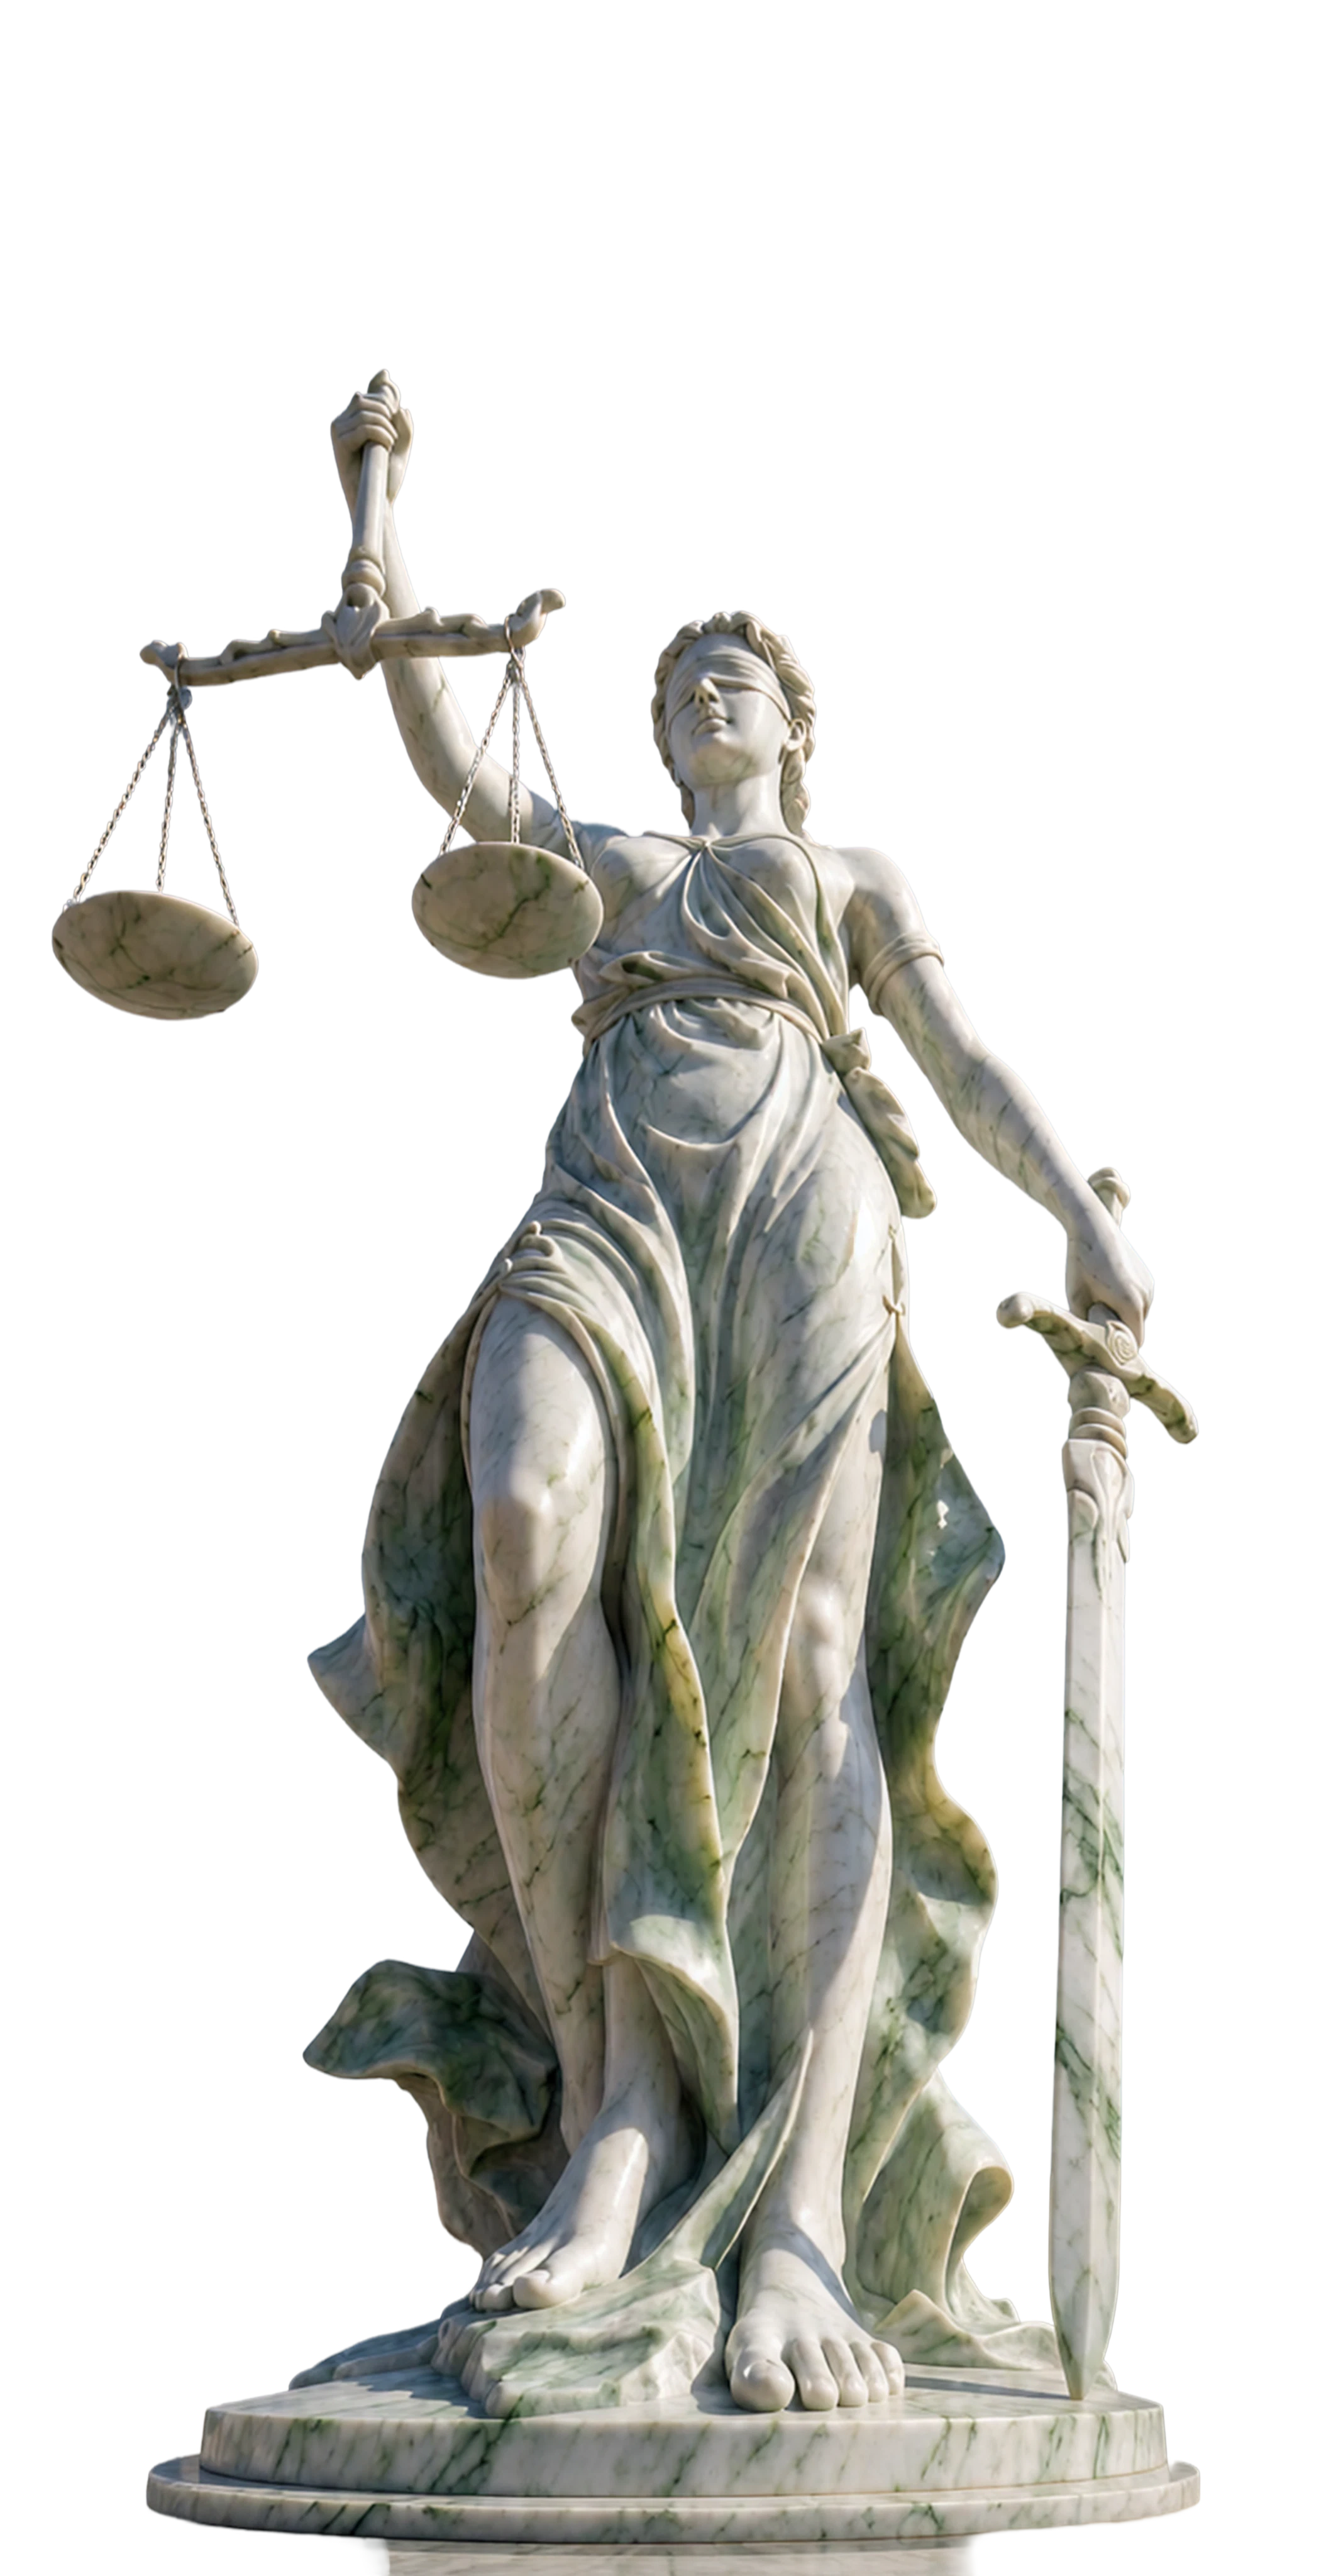
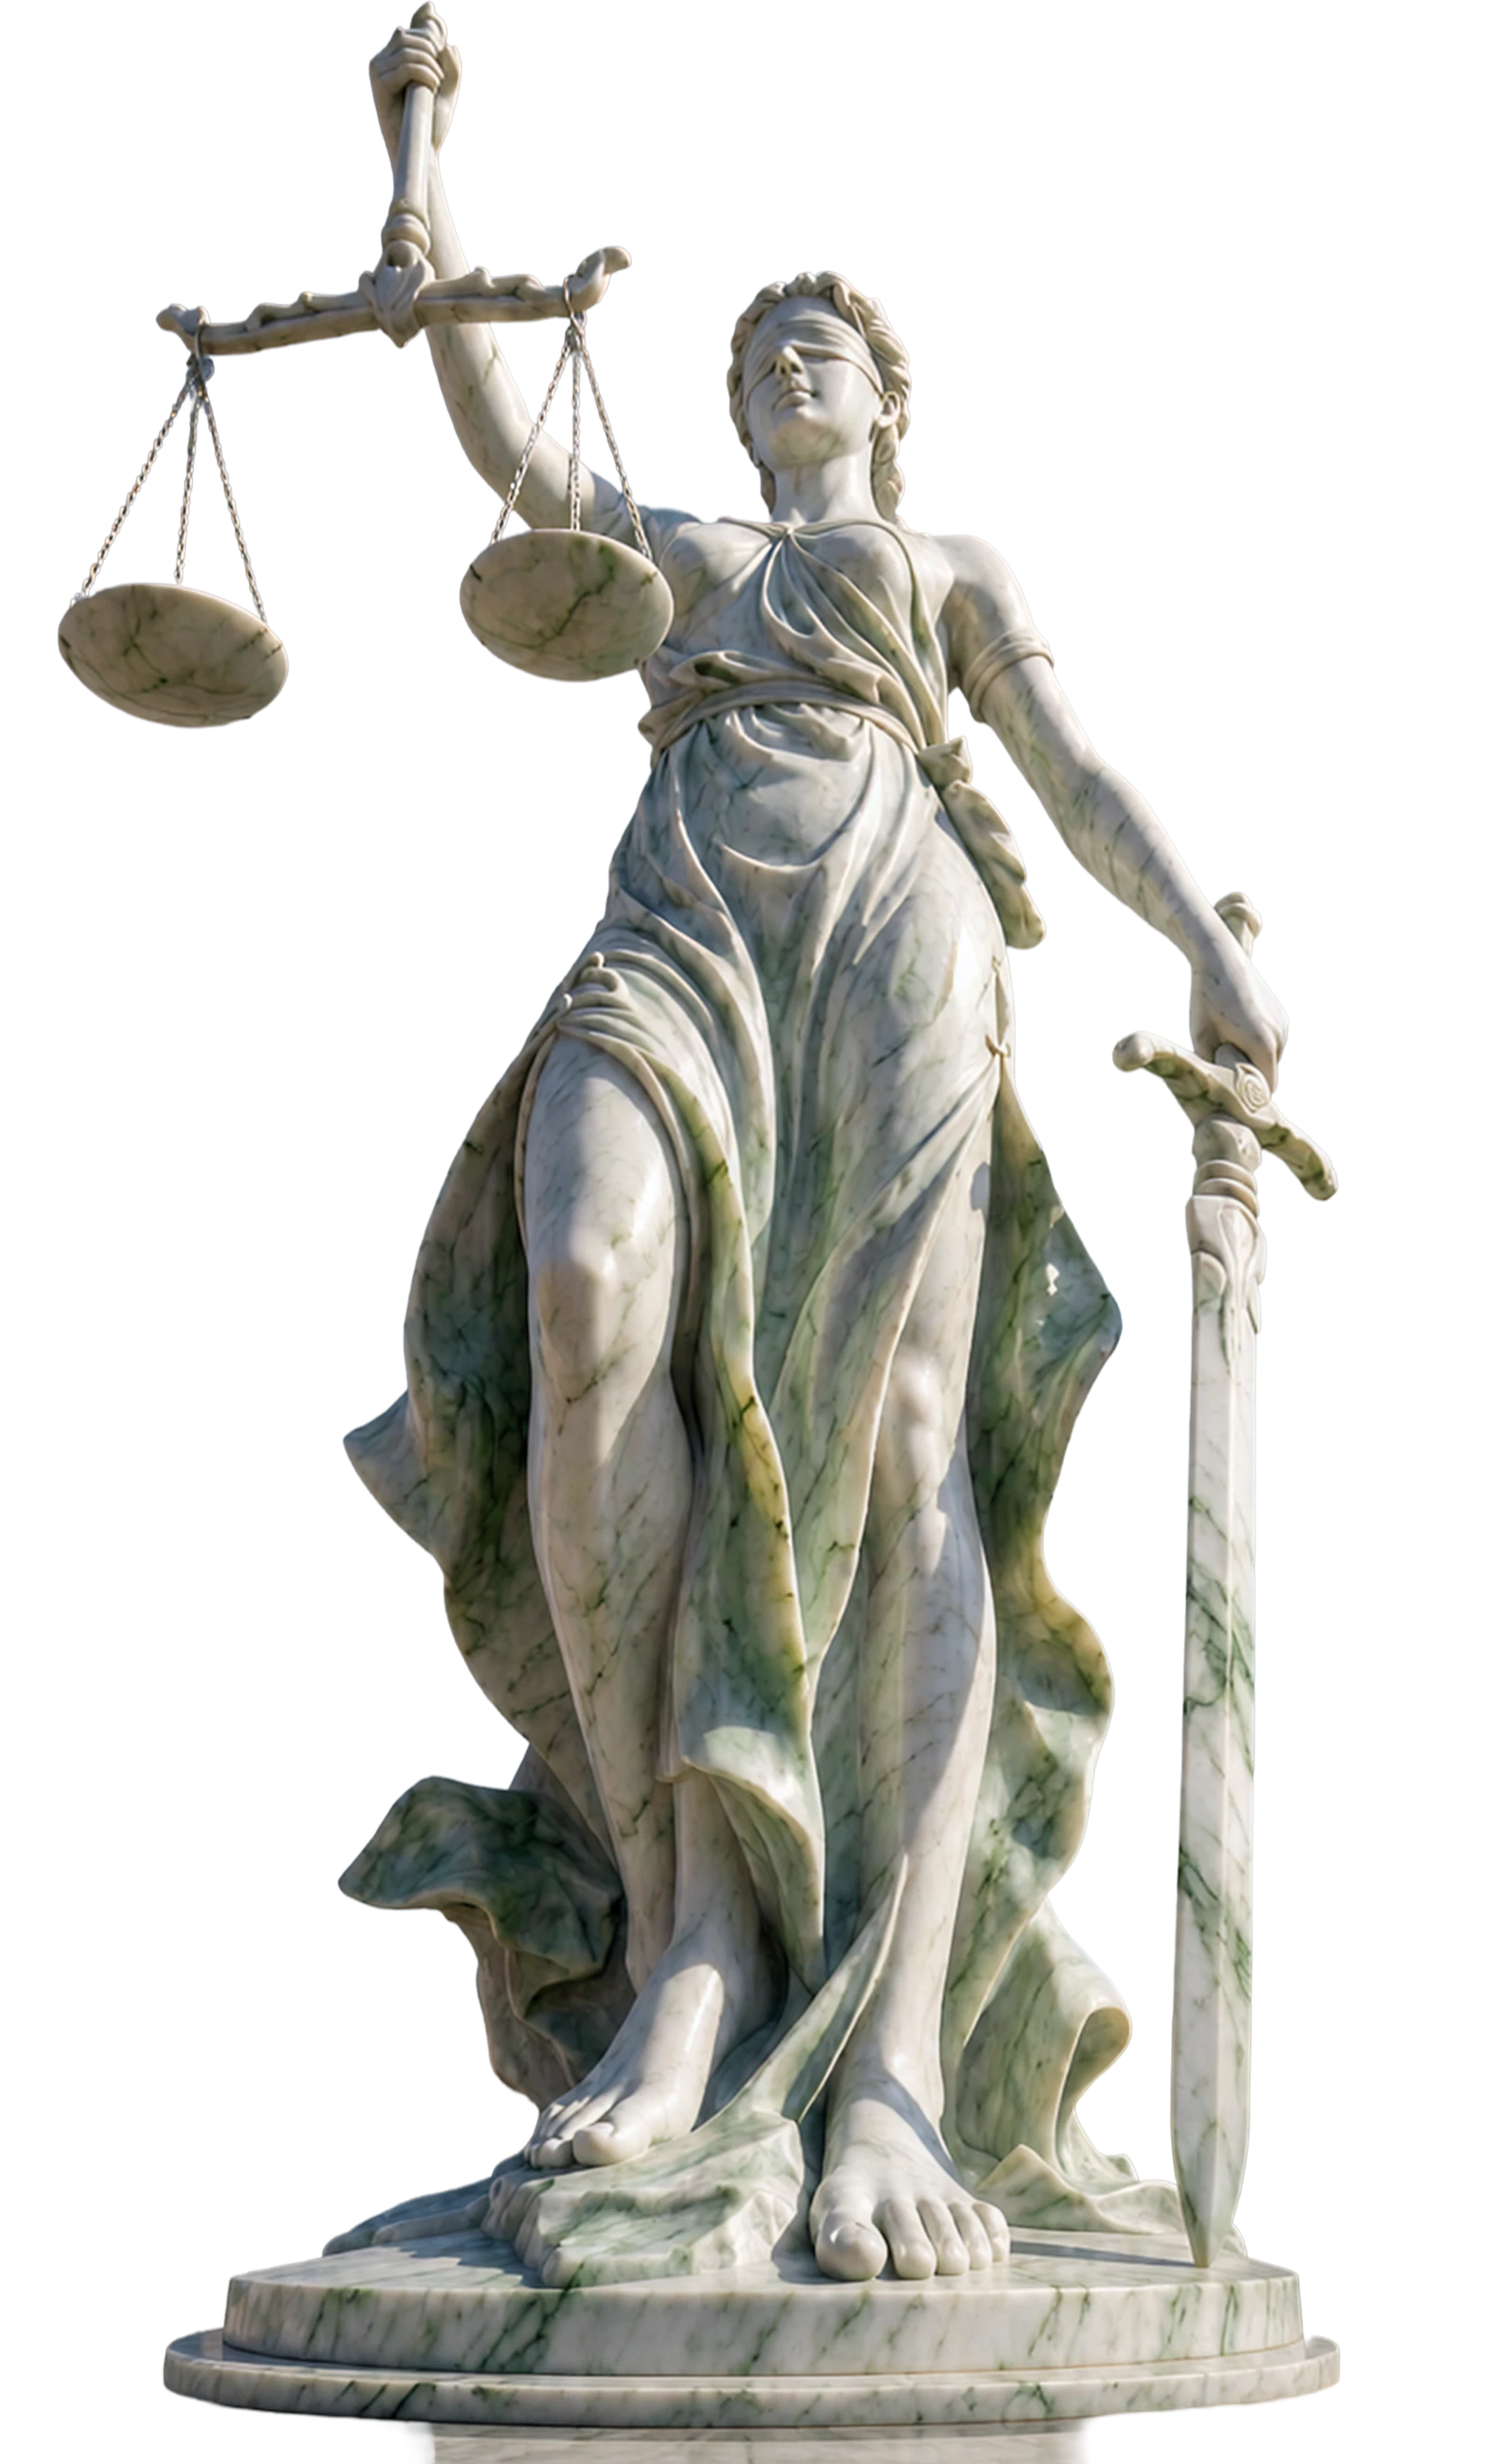
Crop hero-01 top pad and retune statue framing
Remove ~585px of transparent top margin from hero-01.png (2117×3511).
Desktop keeps object-position: center top with a 100px GNB pin; tablet
and mobile media tops shift to 14.1% / 24.7% so the tip matches the
pre-crop frame, with aspect-ratio updated to 2117 / 3511.

diff --git a/src/components/Hero.css b/src/components/Hero.css
@@ -150,11 +150,9 @@
 
 .hero__bg-slide--statue .hero__visual img {
   /*
-    2x PNG 2117×4096 — head/arms/scales in frame.
-    Height must stay tall enough that the PNG’s bottom cut edge remains
-    BELOW the section after the desktop GNB clearance nudge.
-    Desktop-only: nudge down ~GNB bar height (was translateY(-20%) which
-    tucked hand/scales under the menu). Tablet/mobile framing unchanged.
+    Cropped PNG 2117×3511 (top transparent pad removed).
+    Desktop: object-position center top; translateY pins content top to
+    the GNB bar bottom (~100px). Tablet/mobile use absolute media tops.
   */
   width: min(47.4vw, 910px);
   height: min(145vh, 2200px);
@@ -162,8 +160,8 @@
   /* NEVER center bottom — that clips the raised scales + head */
   object-position: center top;
   margin-top: 0;
-  /* Clear GNB (~100px) + Ken Burns headroom; zoom from near head */
-  transform: translateY(140px) scale(calc(1 + var(--hero-zoom) * 0.08));
+  /* Pin statue tip to desktop GNB bottom; Ken Burns from near head */
+  transform: translateY(100px) scale(calc(1 + var(--hero-zoom) * 0.08));
   transform-origin: 42% 14%;
   /*
     Figma hero_1 statue reads brighter / higher-key than the raw PNG.
@@ -673,7 +671,7 @@
 
   /* Keep statue raised offset even when Ken Burns is disabled */
   .hero__bg-slide--statue .hero__visual img {
-    transform: translateY(140px);
+    transform: translateY(100px);
     /* Preserve Figma exposure lift (reduced-motion zeroes filters above) */
     filter: brightness(1.28) contrast(0.97) !important;
   }
@@ -706,10 +704,10 @@
   }
 
   /*
-    Statue (slide 01) — Figma HOME_TABLET2 image 42:
-    artboard 768×1000; node 611×1023 at x=78.5, absolute top = 814 + (-657) = 157
-    Midpoint between prior raise (top ≈ -213) and Figma (157) → top -2.8%.
-    Width 611, centered. Native aspect (no squash).
+    Statue (slide 01) — after cropping 585px top pad from the PNG,
+    shift media down so the visible tip matches the prior frame:
+    old top -2.8% + (611 × 585 / 2117) / 1000 ≈ 14.1%.
+    Width 611, centered. Native cropped aspect (no squash).
   */
   .hero__bg-slide--statue .hero__visual {
     place-items: unset;
@@ -720,7 +718,7 @@
     display: block;
     position: absolute;
     left: 50%;
-    top: -2.8%; /* mid: raised ↔ Figma */
+    top: 14.1%; /* was -2.8% before crop */
     width: min(79.557vw, 611px);
     transform: translateX(-50%);
   }
@@ -729,7 +727,7 @@
     width: 100%;
     height: auto;
     max-height: none;
-    aspect-ratio: 2117 / 4096;
+    aspect-ratio: 2117 / 3511;
     object-fit: contain;
     object-position: center top;
     transform: none;
@@ -1000,16 +998,16 @@
     padding-right: 24px;
   }
 
-  /* Tablet statue — mid between prior raise and Figma top */
+  /* Tablet statue — crop-compensated top (see ≤1024 note) */
   .hero__bg-slide--statue .hero__visual-media {
-    top: -2.8%;
+    top: 14.1%;
     width: 611px;
   }
 
   .hero__bg-slide--statue .hero__visual img {
     width: 100%;
     height: auto;
-    aspect-ratio: 2117 / 4096;
+    aspect-ratio: 2117 / 3511;
     object-fit: contain;
     object-position: center top;
     transform: none;
@@ -1051,13 +1049,12 @@
   }
 
   /*
-    Mobile statue — Figma HOME_MOBILE2 image 42:
-    artboard 390×900; node 418.1×700 at x≈-14.3, absolute top = 752 + (-533.5) = 218.5
-    Midpoint between prior raise (top ≈ -5) and Figma (218.5) → top 11.9%.
+    Mobile statue — after top crop, shift media down to keep the prior tip:
+    old top 11.9% + (107.2vw × 585 / 2117) / 900 ≈ 24.7% at 390×900.
     Width 107.2vw (418.1/390), centered.
   */
   .hero__bg-slide--statue .hero__visual-media {
-    top: 11.9%; /* mid: raised ↔ Figma */
+    top: 24.7%; /* was 11.9% before crop */
     width: 107.2vw;
   }
 
@@ -1066,7 +1063,7 @@
     height: auto;
     max-width: none;
     max-height: none;
-    aspect-ratio: 2117 / 4096;
+    aspect-ratio: 2117 / 3511;
     object-fit: contain;
     object-position: center top;
     transform: none;
@@ -1086,12 +1083,12 @@
   }
 
   .hero__bg-slide--statue .hero__visual-media {
-    top: -2.8%;
+    top: 14.1%;
   }
 }
 
 @media (prefers-reduced-motion: reduce) and (max-width: 767px) {
   .hero__bg-slide--statue .hero__visual-media {
-    top: 11.9%;
+    top: 24.7%;
   }
 }